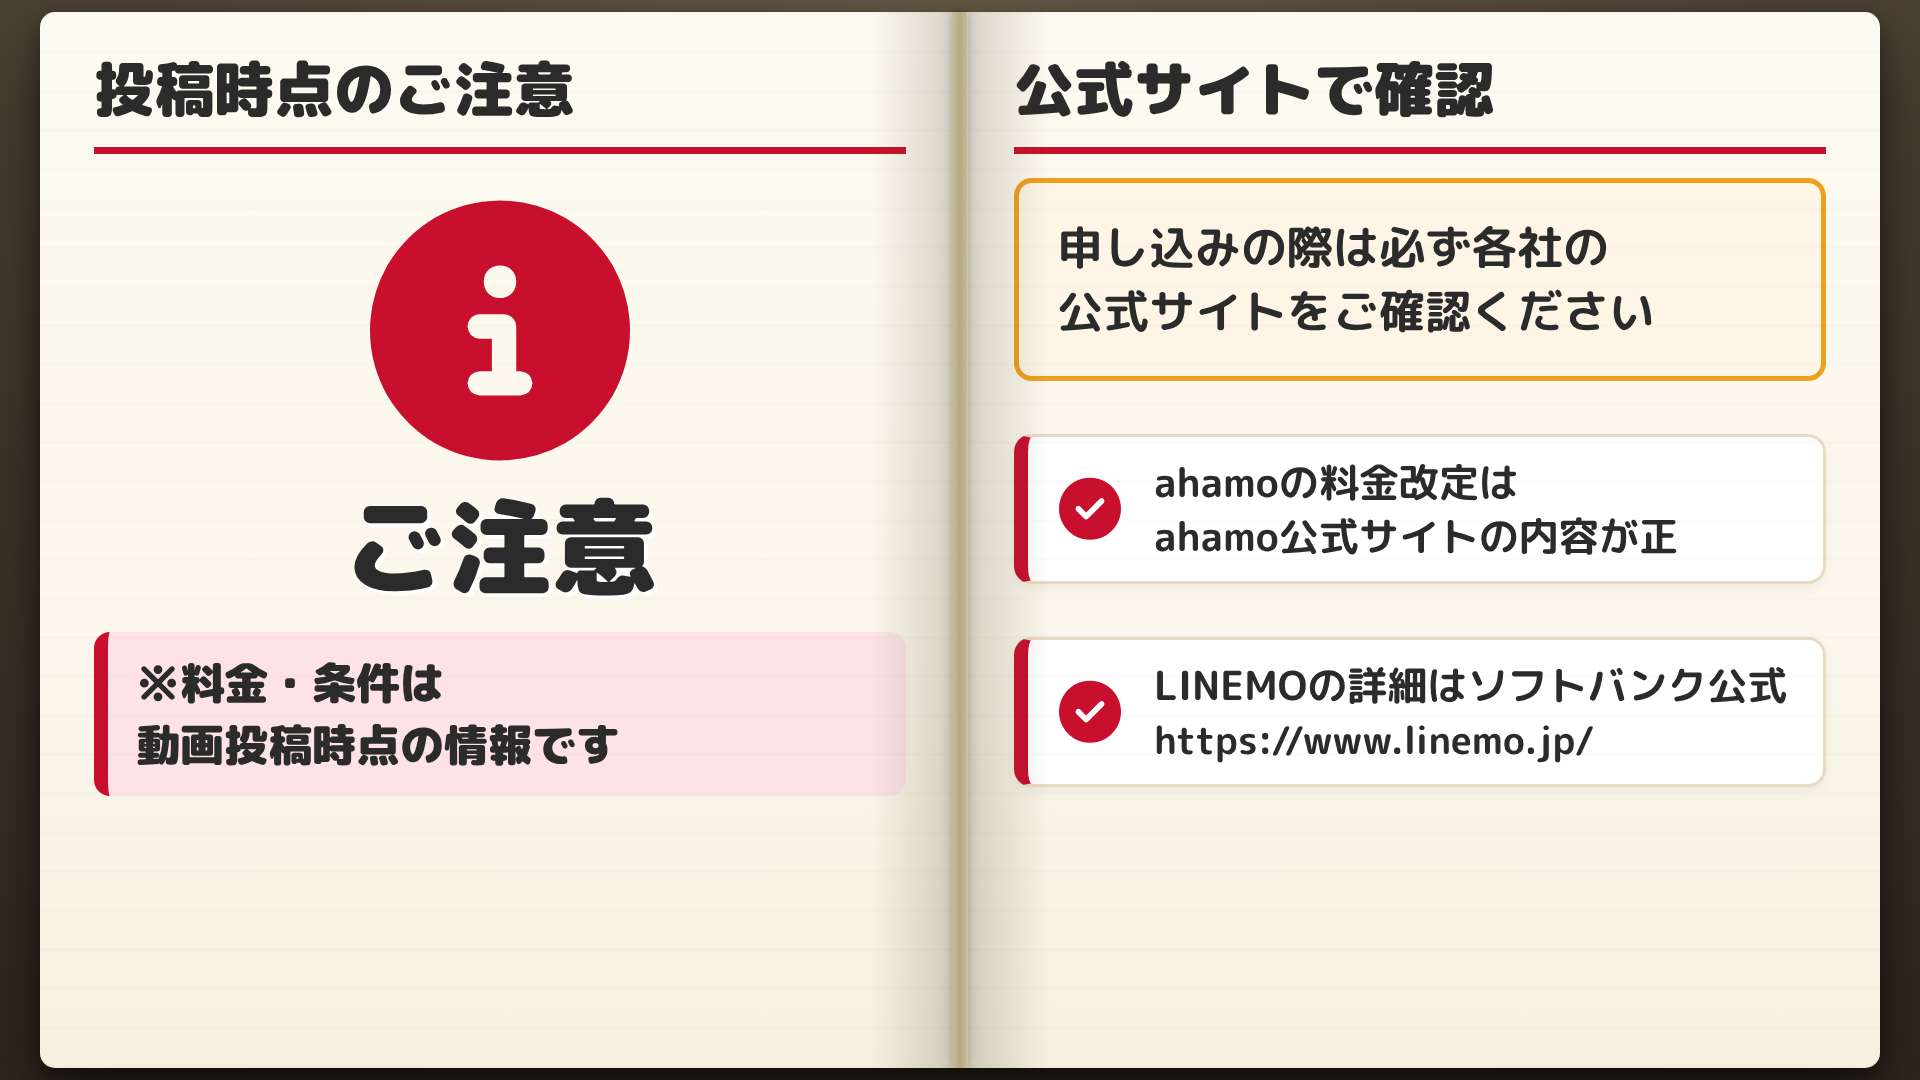
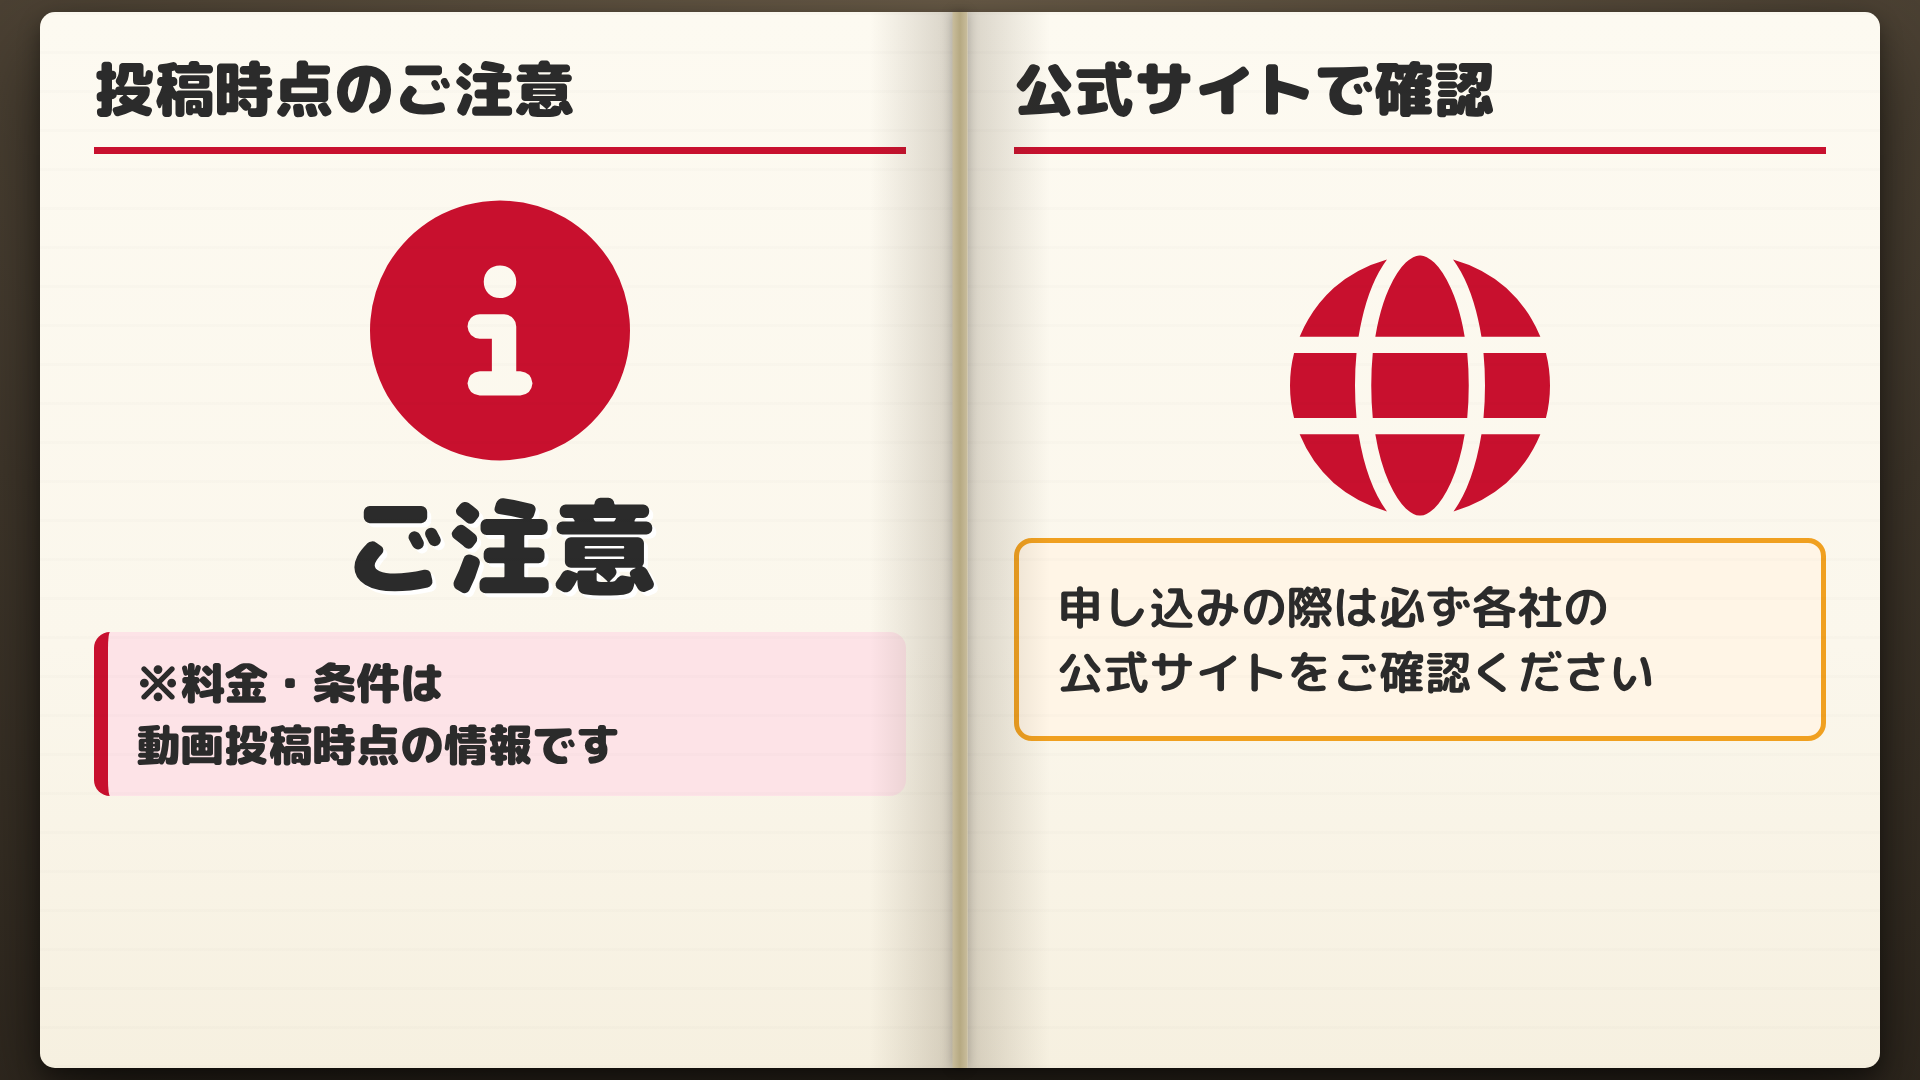
余計な注記を削除

Changed region(s): [[0.5312, 0.2139, 0.9688, 0.7333], [0.5312, 0.1528, 0.9375, 0.1833]]

diff --git a/slides.html b/slides.html
@@ -118,16 +118,6 @@
       .call-sheet td {
         padding: 10px 14px;
       }
-      .official-links .tx {
-        font-size: 40px;
-      }
-      .official-links li {
-        padding: 18px 22px;
-      }
-      .official-url {
-        font-size: 38px;
-        white-space: nowrap;
-      }
       .posting-note {
         padding: 20px 28px;
       }
@@ -1182,35 +1172,13 @@
         </div>
         <div class="page right">
           <div class="page-head">公式サイトで確認</div>
-          <div class="page-body">
+          <div class="page-body center">
+            <div class="bigicon">
+              <i class="fa-solid fa-globe" aria-hidden="true"></i>
+            </div>
             <div class="warn">
               申し込みの際は必ず各社の公式サイトをご確認ください
             </div>
-            <ul class="rows official-links">
-              <li>
-                <span class="ic"
-                  ><i
-                    class="fa-solid fa-circle-check"
-                    aria-hidden="true"
-                  ></i></span
-                ><span class="tx"
-                  >ahamoの料金改定はahamo公式サイトの内容が正</span
-                >
-              </li>
-              <li>
-                <span class="ic"
-                  ><i
-                    class="fa-solid fa-circle-check"
-                    aria-hidden="true"
-                  ></i></span
-                ><span class="tx"
-                  >LINEMOの詳細はソフトバンク公式<br /><span
-                    class="official-url"
-                    >https://www.linemo.jp/</span
-                  ></span
-                >
-              </li>
-            </ul>
           </div>
         </div>
       </div>
